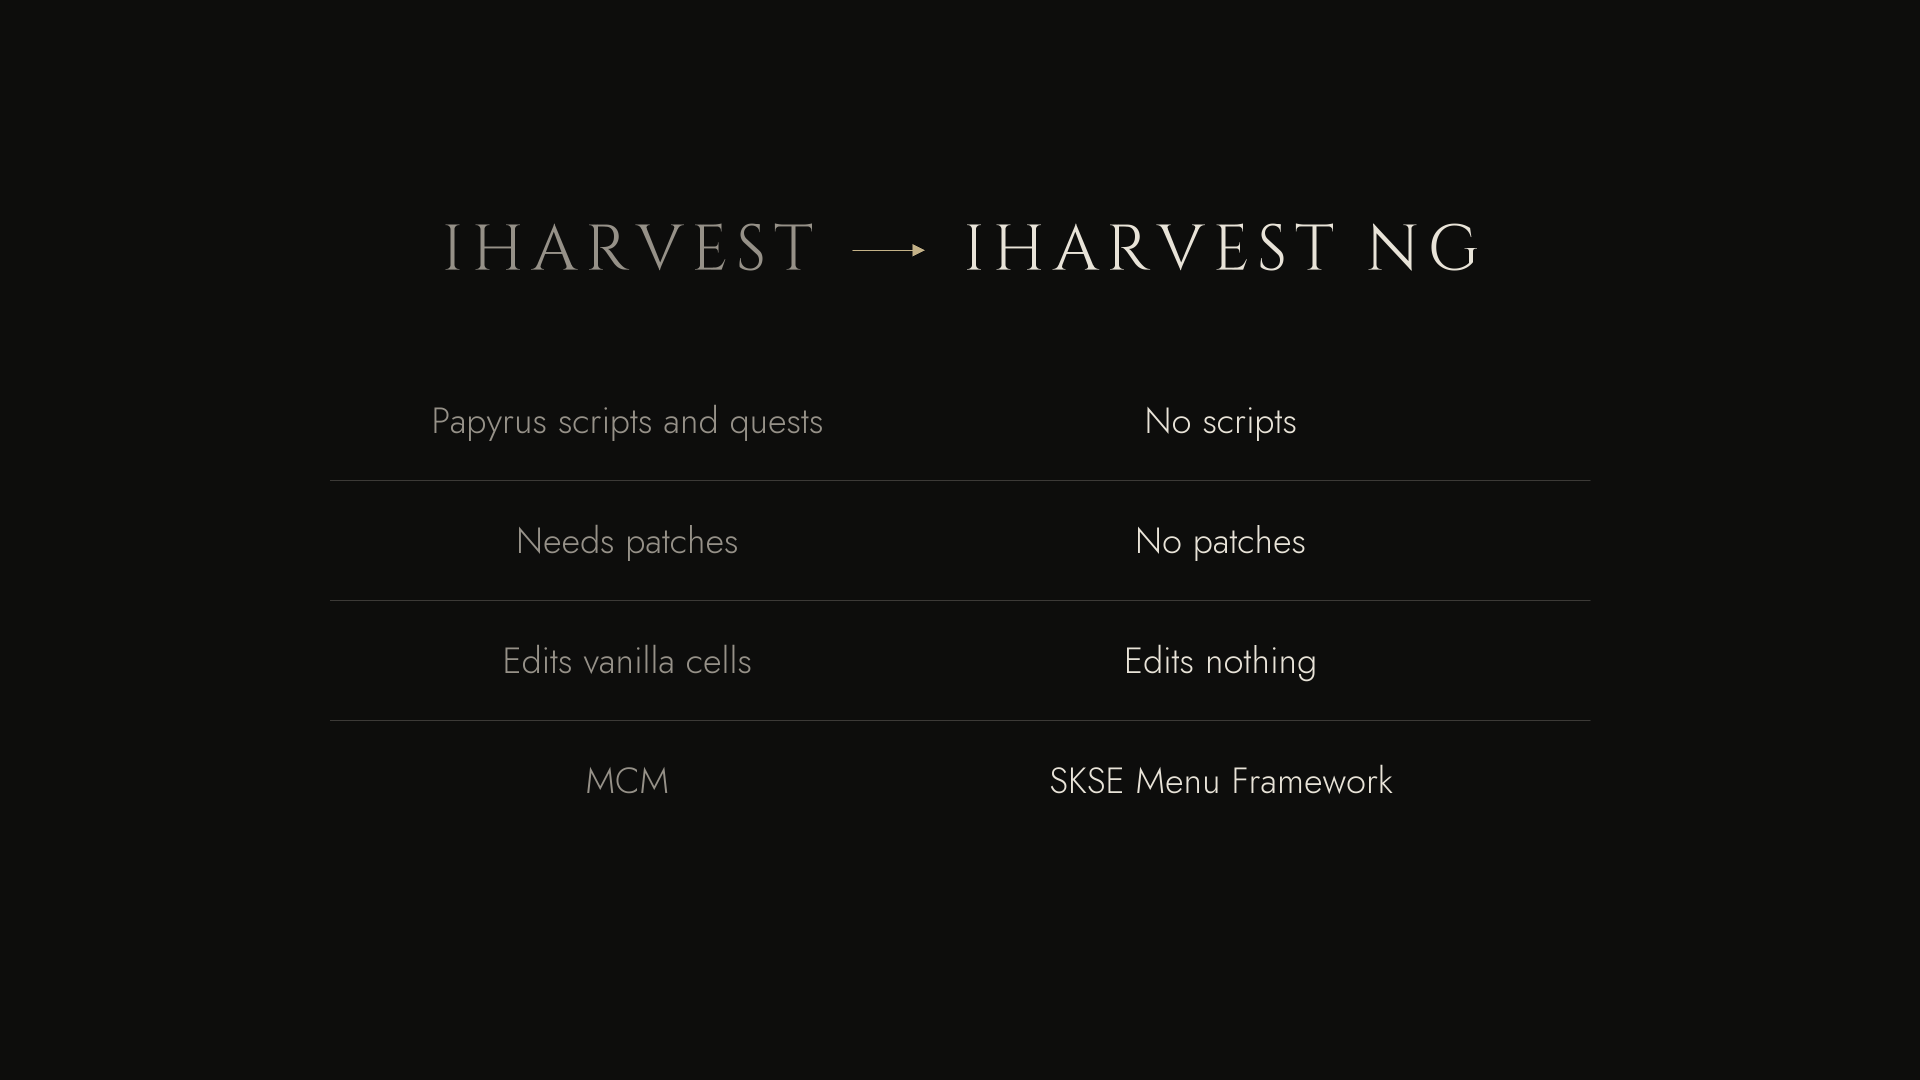
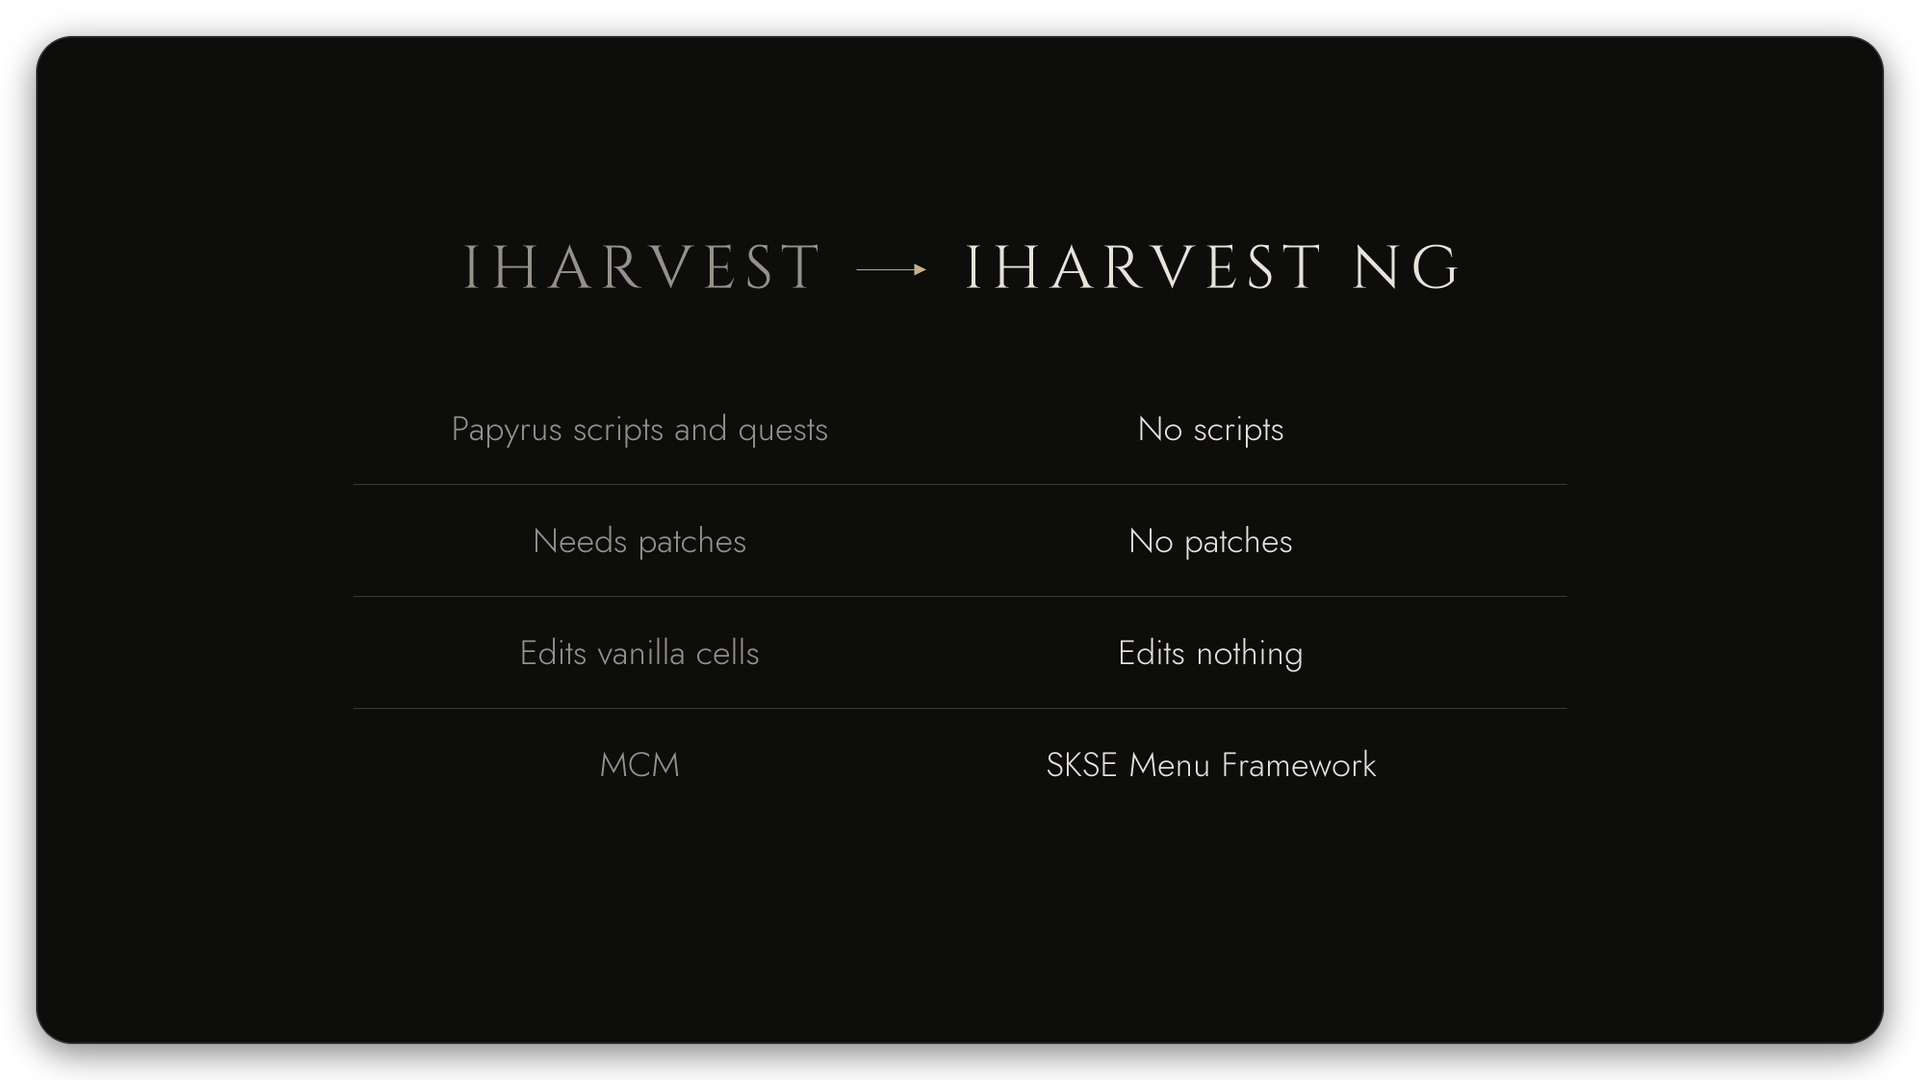
Press kit: every image is a rounded card, upload images included
The header, primary and gallery images now get the same rounded dark card,
hairline border and soft shadow as the description images, drawn inside
their exact upload sizes (1920x480, 1920x1080). Any description that still
links them blends into the Nexus page too.

diff --git a/presskit/src/build.py b/presskit/src/build.py
@@ -95,12 +95,12 @@ class Canvas:
 				pts.append((self.s(cx + x * k), self.s(cy + y * k)))
 		self.d.polygon(pts, fill=GOLD)
 
-	def save(self, path: Path, palette: bool = True, card: int = 0):
+	def save(self, path: Path, palette: bool = True, card: int = 0, keep_size: bool = False):
 		"""card > 0: save as a description card - rounded corners of that radius, a hairline border and
 		a soft shadow on transparent margins, so the dark panel sits on the Nexus page like its own UI."""
 		out = self.img.resize((self.w, self.h), Image.BOX).convert("RGB")  # exact 2x: no ringing
 		if card:
-			as_card(out, card).save(path, optimize=True)
+			as_card(out, card, keep_size).save(path, optimize=True)
 			return
 		if palette:
 			# Flat art: a 256-colour palette is visually lossless here and much smaller.
@@ -114,7 +114,13 @@ CARD_BORDER = (52, 51, 49)   # hairline round each card: just lighter than the p
 SHADOW = 0.5                 # card shadow opacity on the page
 
 
-def as_card(img: Image.Image, radius: int) -> Image.Image:
+def as_card(img: Image.Image, radius: int, keep_size: bool = False) -> Image.Image:
+	"""keep_size: the finished file keeps img's exact size (Nexus upload slots expect it); the panel is
+	scaled down slightly to make room for the shadow margin."""
+	margin = max(12, radius)
+	out_w, out_h = img.size
+	if keep_size:
+		img = img.resize((out_w - 2 * margin, out_h - 2 * margin), Image.LANCZOS)
 	w, h = img.size
 	k = 4  # supersampled corner mask
 	mask = Image.new("L", (w * k, h * k), 0)
@@ -128,7 +134,6 @@ def as_card(img: Image.Image, radius: int) -> Image.Image:
 	panel = panel.convert("RGBA")
 	panel.putalpha(mask)
 
-	margin = max(12, radius)
 	sheet = Image.new("RGBA", (w + 2 * margin, h + 2 * margin), (0, 0, 0, 0))
 	shadow = Image.new("L", sheet.size, 0)
 	shadow.paste(mask, (margin, margin + margin // 4))
@@ -171,14 +176,14 @@ def lockup(c: Canvas, icon_h: float, gap: float, size: int, tracking: float):
 def header(out: Path):
 	c = Canvas(1920, 480)
 	lockup(c, 420, 90, 92, 0.14)
-	c.save(out / "ihng-header-1920x480.png", palette=False)                 # Nexus "Header image" slot
+	c.save(out / "ihng-header-1920x480.png", card=28, keep_size=True)       # Nexus "Header image" slot
 	c.save(out / "ihng-banner-card.png", card=28)                            # top of the description
 
 
 def primary(out: Path):
 	c = Canvas(1920, 1080)
 	lockup(c, 860, 120, 104, 0.12)
-	c.save(out / "ihng-primary-1920x1080.png", palette=False)
+	c.save(out / "ihng-primary-1920x1080.png", card=36, keep_size=True)
 
 
 ROWS = [
@@ -214,7 +219,7 @@ def comparison(c: Canvas, ty: float, top: float, rule_inset: float):
 def gallery_comparison(out: Path):
 	c = Canvas(1920, 1080)
 	comparison(c, 250, 420, 330)
-	c.save(out / "ihng-gallery-comparison-1920x1080.png")             # Images tab
+	c.save(out / "ihng-gallery-comparison-1920x1080.png", card=36, keep_size=True)  # Images tab
 
 
 def description_comparison(out: Path):

diff --git a/presskit/README.md b/presskit/README.md
@@ -82,7 +82,7 @@ description and the Nexus credits box already carry it.
 | Type | Cinzel (titles), Jost (body) | Uppercase titles with wide letter spacing. Both SIL OFL, in `src/fonts/` |
 
 Keep it flat: no gradients, glows, textures, frames or extra colors. One idea per image, no taglines or spec badges.
-Images in the description are rounded cards (see above); images uploaded to Nexus slots (header, primary, gallery) are plain opaque rectangles.
+Every image is a rounded dark card with a hairline border and a soft shadow, so it sits on the Nexus page like its own UI. Upload-slot images (header, primary, gallery) keep their exact sizes; the card is drawn inside them.
 The sparkle mark in the section headers is redrawn from the icon's spell.
 
 ## Rebuild
